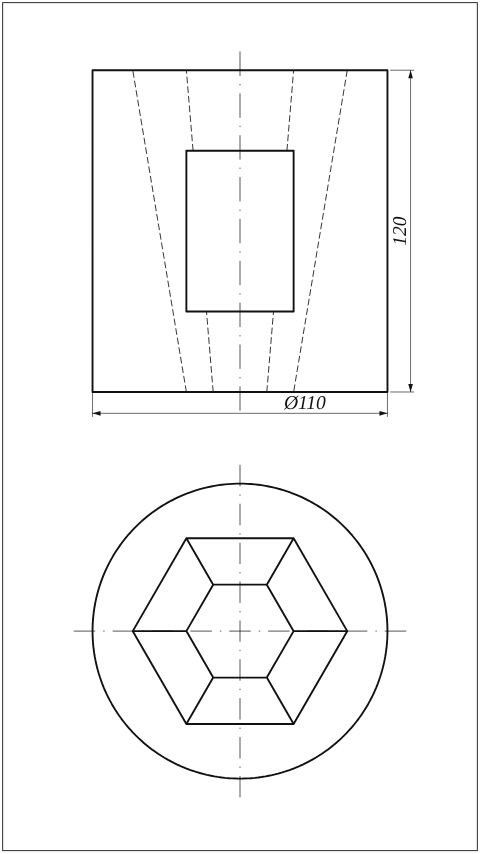
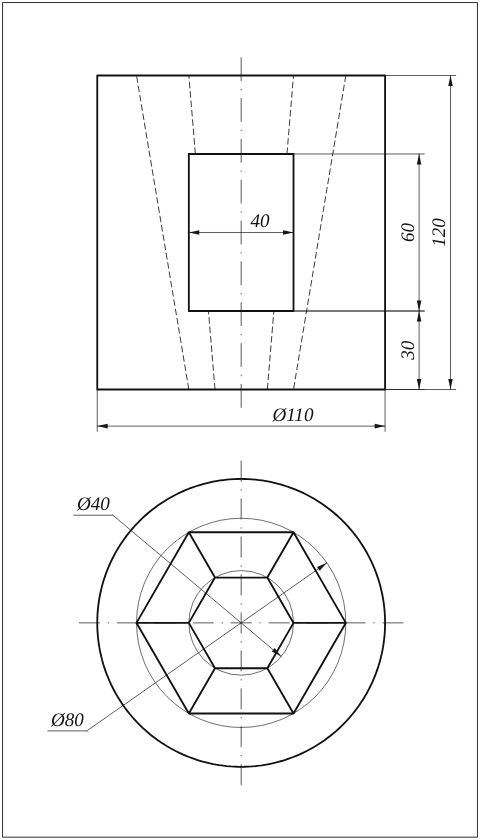
ИГ ДЗ5: картинки вариантов в списке перегенерированы с размерами по условию; кэш sw.js — v171
Claude-Session: https://claude.ai/code/session_01UoLi631uKcf3iksa6qcvBZ

diff --git a/sw.js b/sw.js
@@ -1,5 +1,5 @@
 /* Офлайн: сайт — один файл. Сначала сеть (чтобы обновления приходили), при отсутствии сети — копия из кэша. */
-const C='nachert-v170';
+const C='nachert-v171';
 self.addEventListener('install',e=>{ e.waitUntil(caches.open(C).then(c=>c.addAll(['./','./index.html','./manifest.webmanifest','./icon-192.png','./apple-touch-icon.png','./kernel/dz.js','./kernel/prep.js','./prep/engine.js','./prep/x.js','./prep/x-b.js','./prep/t.js','./prep/base.js','./prep/sm.js','./prep/more.js','./prep/rest.js','./prep/space.js','./prep/plans.js','./prep/world.js','./dz/ng/lib.js','./dz/ng/1/variants.js','./dz/ng/1/method.js','./dz/ng/1/solver.js','./dz/ng/2/variants.js','./dz/ng/2/method.js','./dz/ng/2/solver.js','./dz/ng/3/variants.js','./dz/ng/3/method.js','./dz/ng/3/solver.js','./dz/ng/4/variants.js','./dz/ng/4/method.js','./dz/ng/4/surf.js','./dz/ng/4/solver.js','./dz/ng/5/variants.js','./dz/ng/5/method.js','./dz/ng/5/solver-cone.js','./dz/ng/5/solver.js','./dz/ig/2/variants.js','./dz/ig/3/variants.js','./dz/ig/3/method.js','./dz/ig/3/models.js','./dz/ig/4/variants.js','./dz/ig/4/method.js','./dz/ig/4/models.js','./dz/ig/4/steps.js','./dz/ig/5/variants.js','./dz/ig/5/method.js','./dz/ig/5/models.js','./dz/ig/8/variants.js','./dz/ig/8/method.js','./dz/ig/8/models.js','./kernel/sheet.js','./dz/deck.css','./dz/deck.js'])).then(()=>self.skipWaiting())); });
 self.addEventListener('activate',e=>{ e.waitUntil(caches.keys().then(ks=>Promise.all(ks.filter(k=>k!==C).map(k=>caches.delete(k)))).then(()=>self.clients.claim())); });
 self.addEventListener('fetch',e=>{
